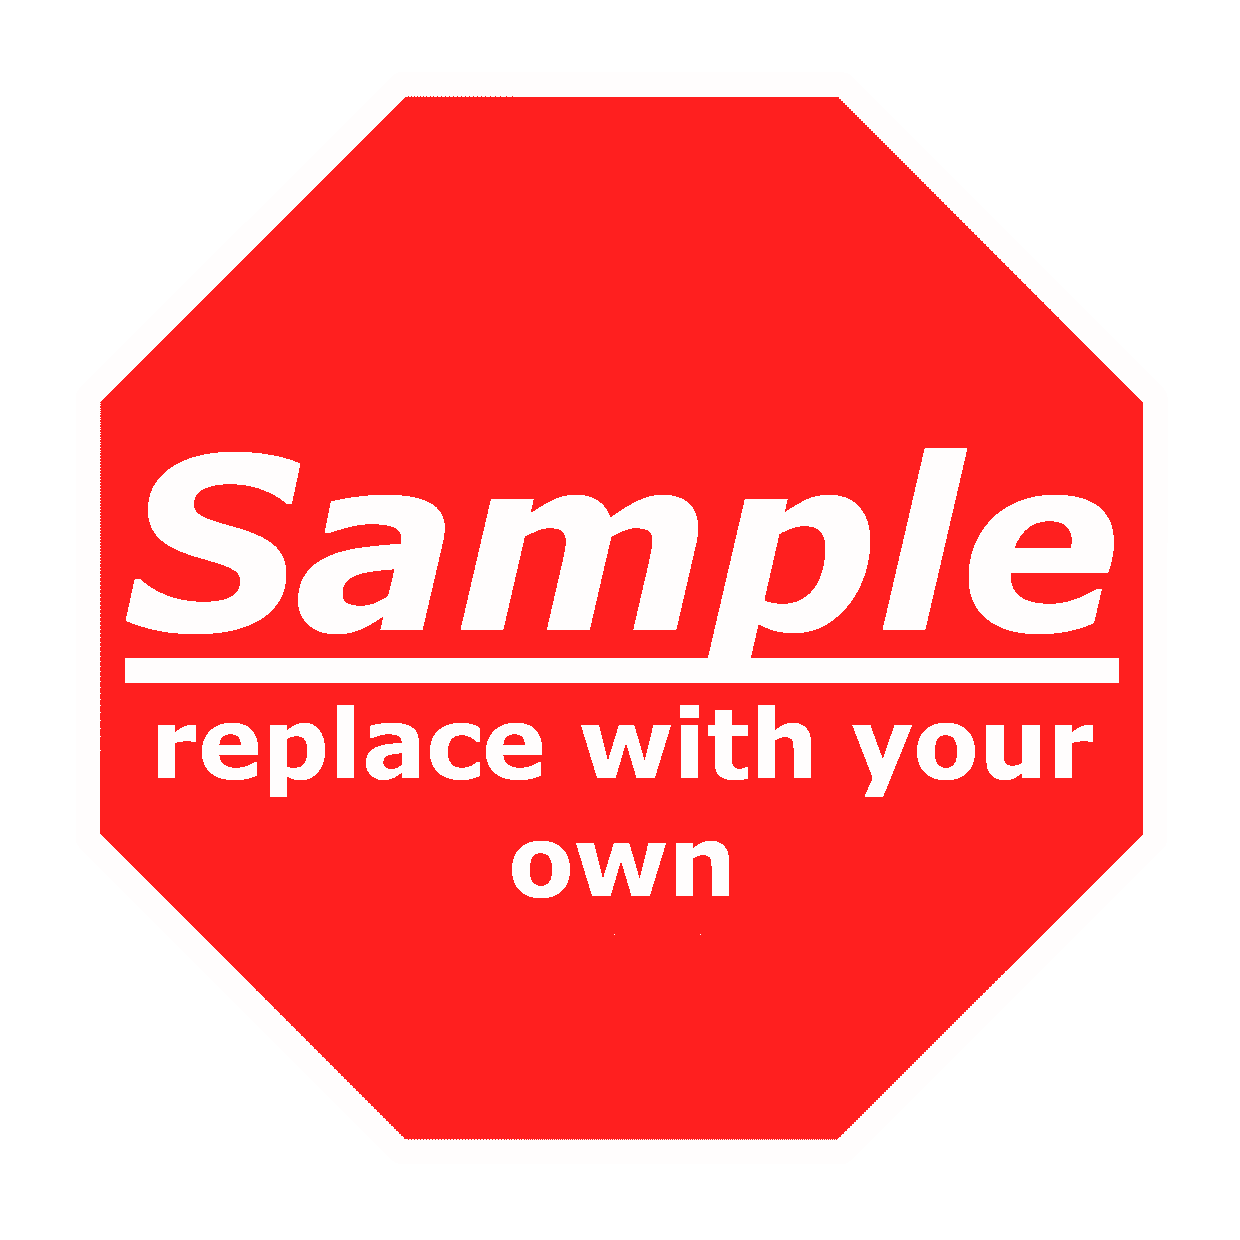
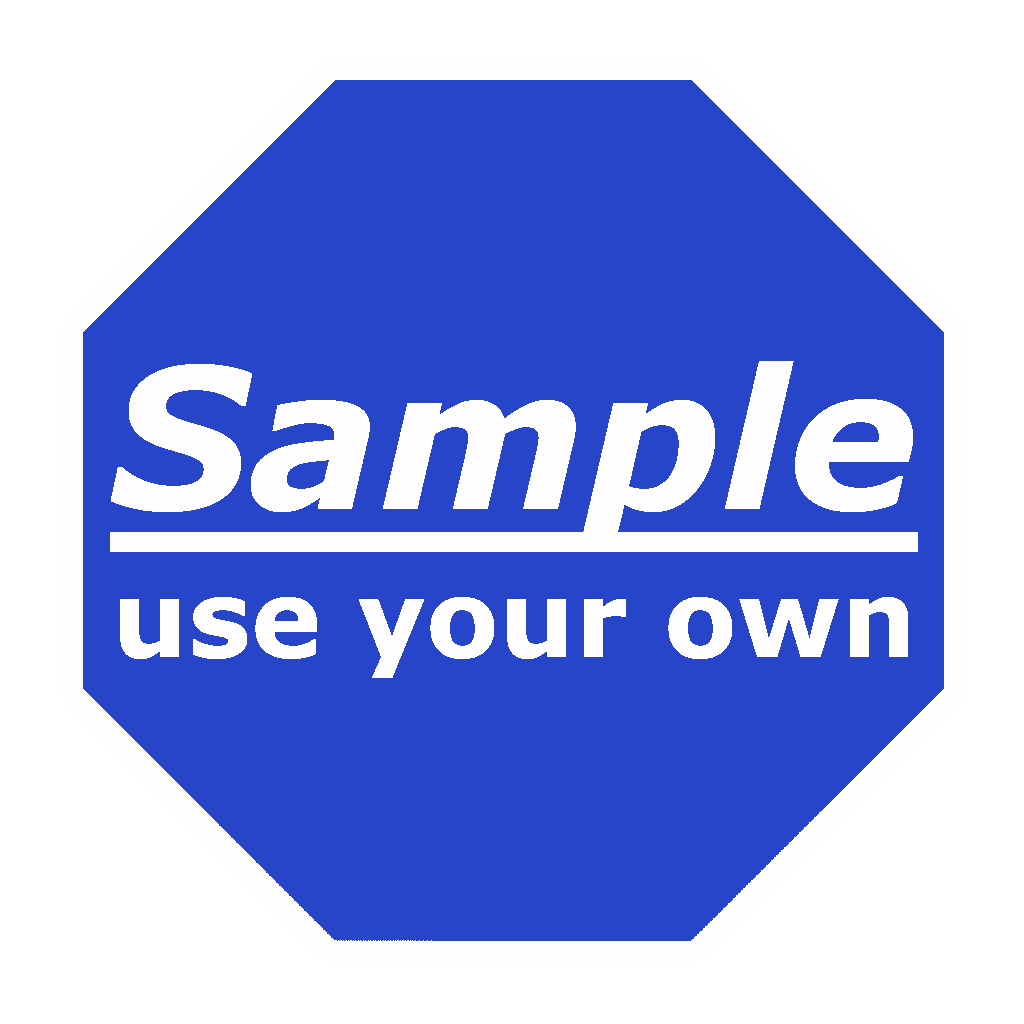
feat(v2): update default sample files

diff --git a/lib/generators/svg.js b/lib/generators/svg.js
@@ -12,7 +12,7 @@ module.exports = async function (file, opts, done) {
     steps: 4
   }
 
-  posterize(buffer, params, async (err, svg) => {
+  posterize(buffer, params, async (_, svg) => {
     const svgOutput = new svgo({})
     svgOutput.optimize(svg).then(res => {
       writeFile(file.absoluteName, res.data, done)
